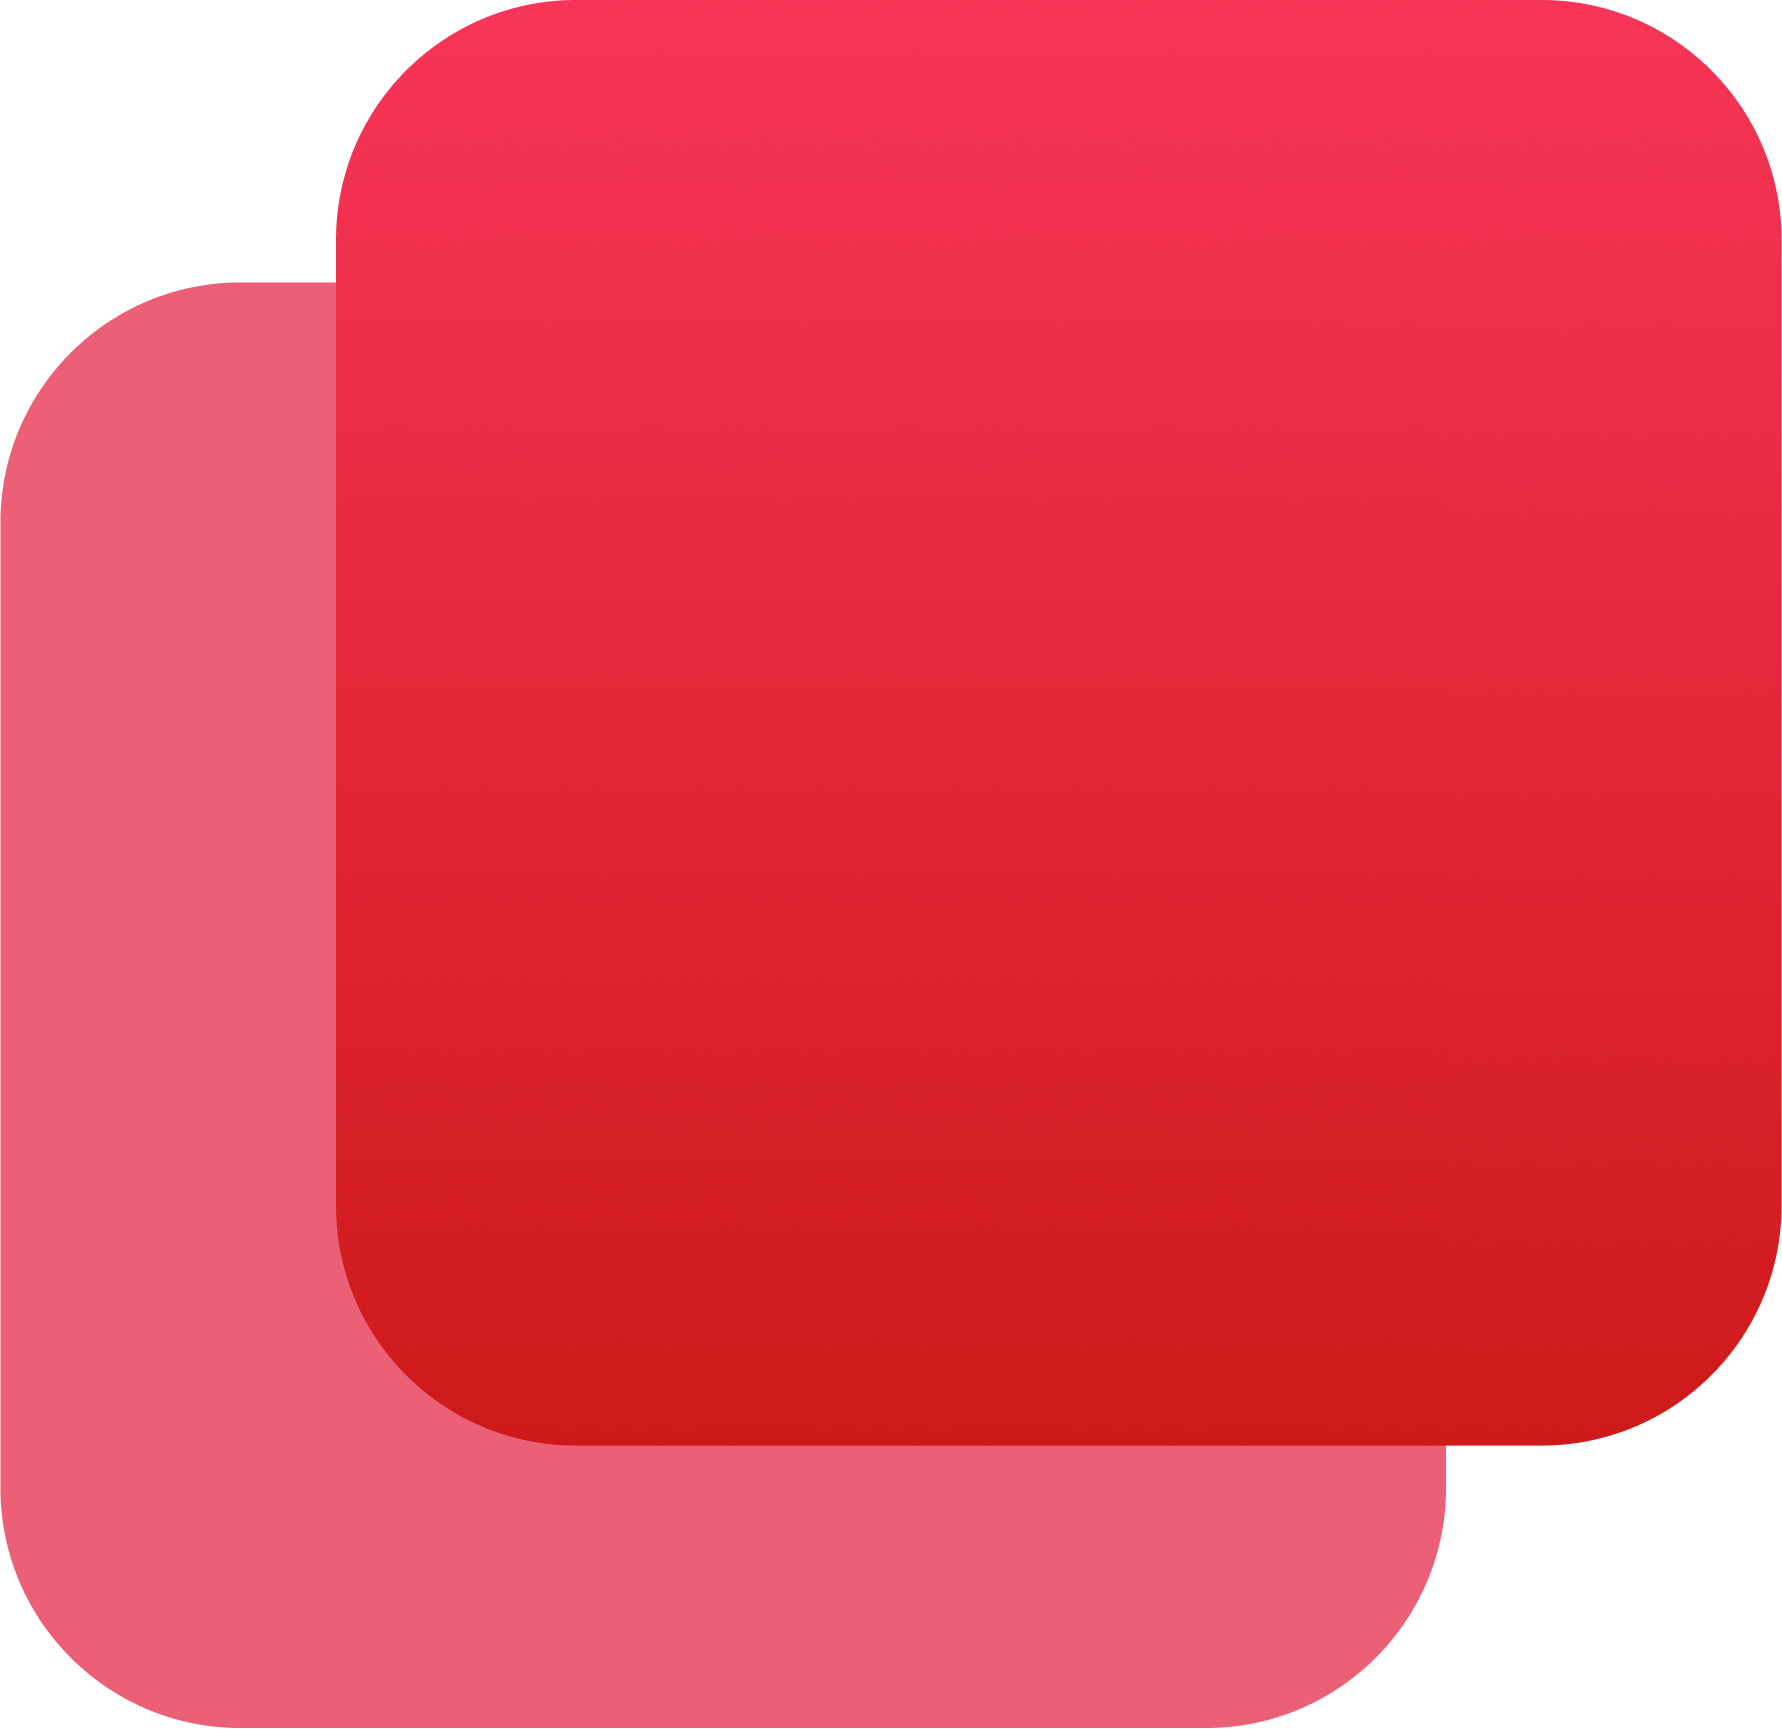
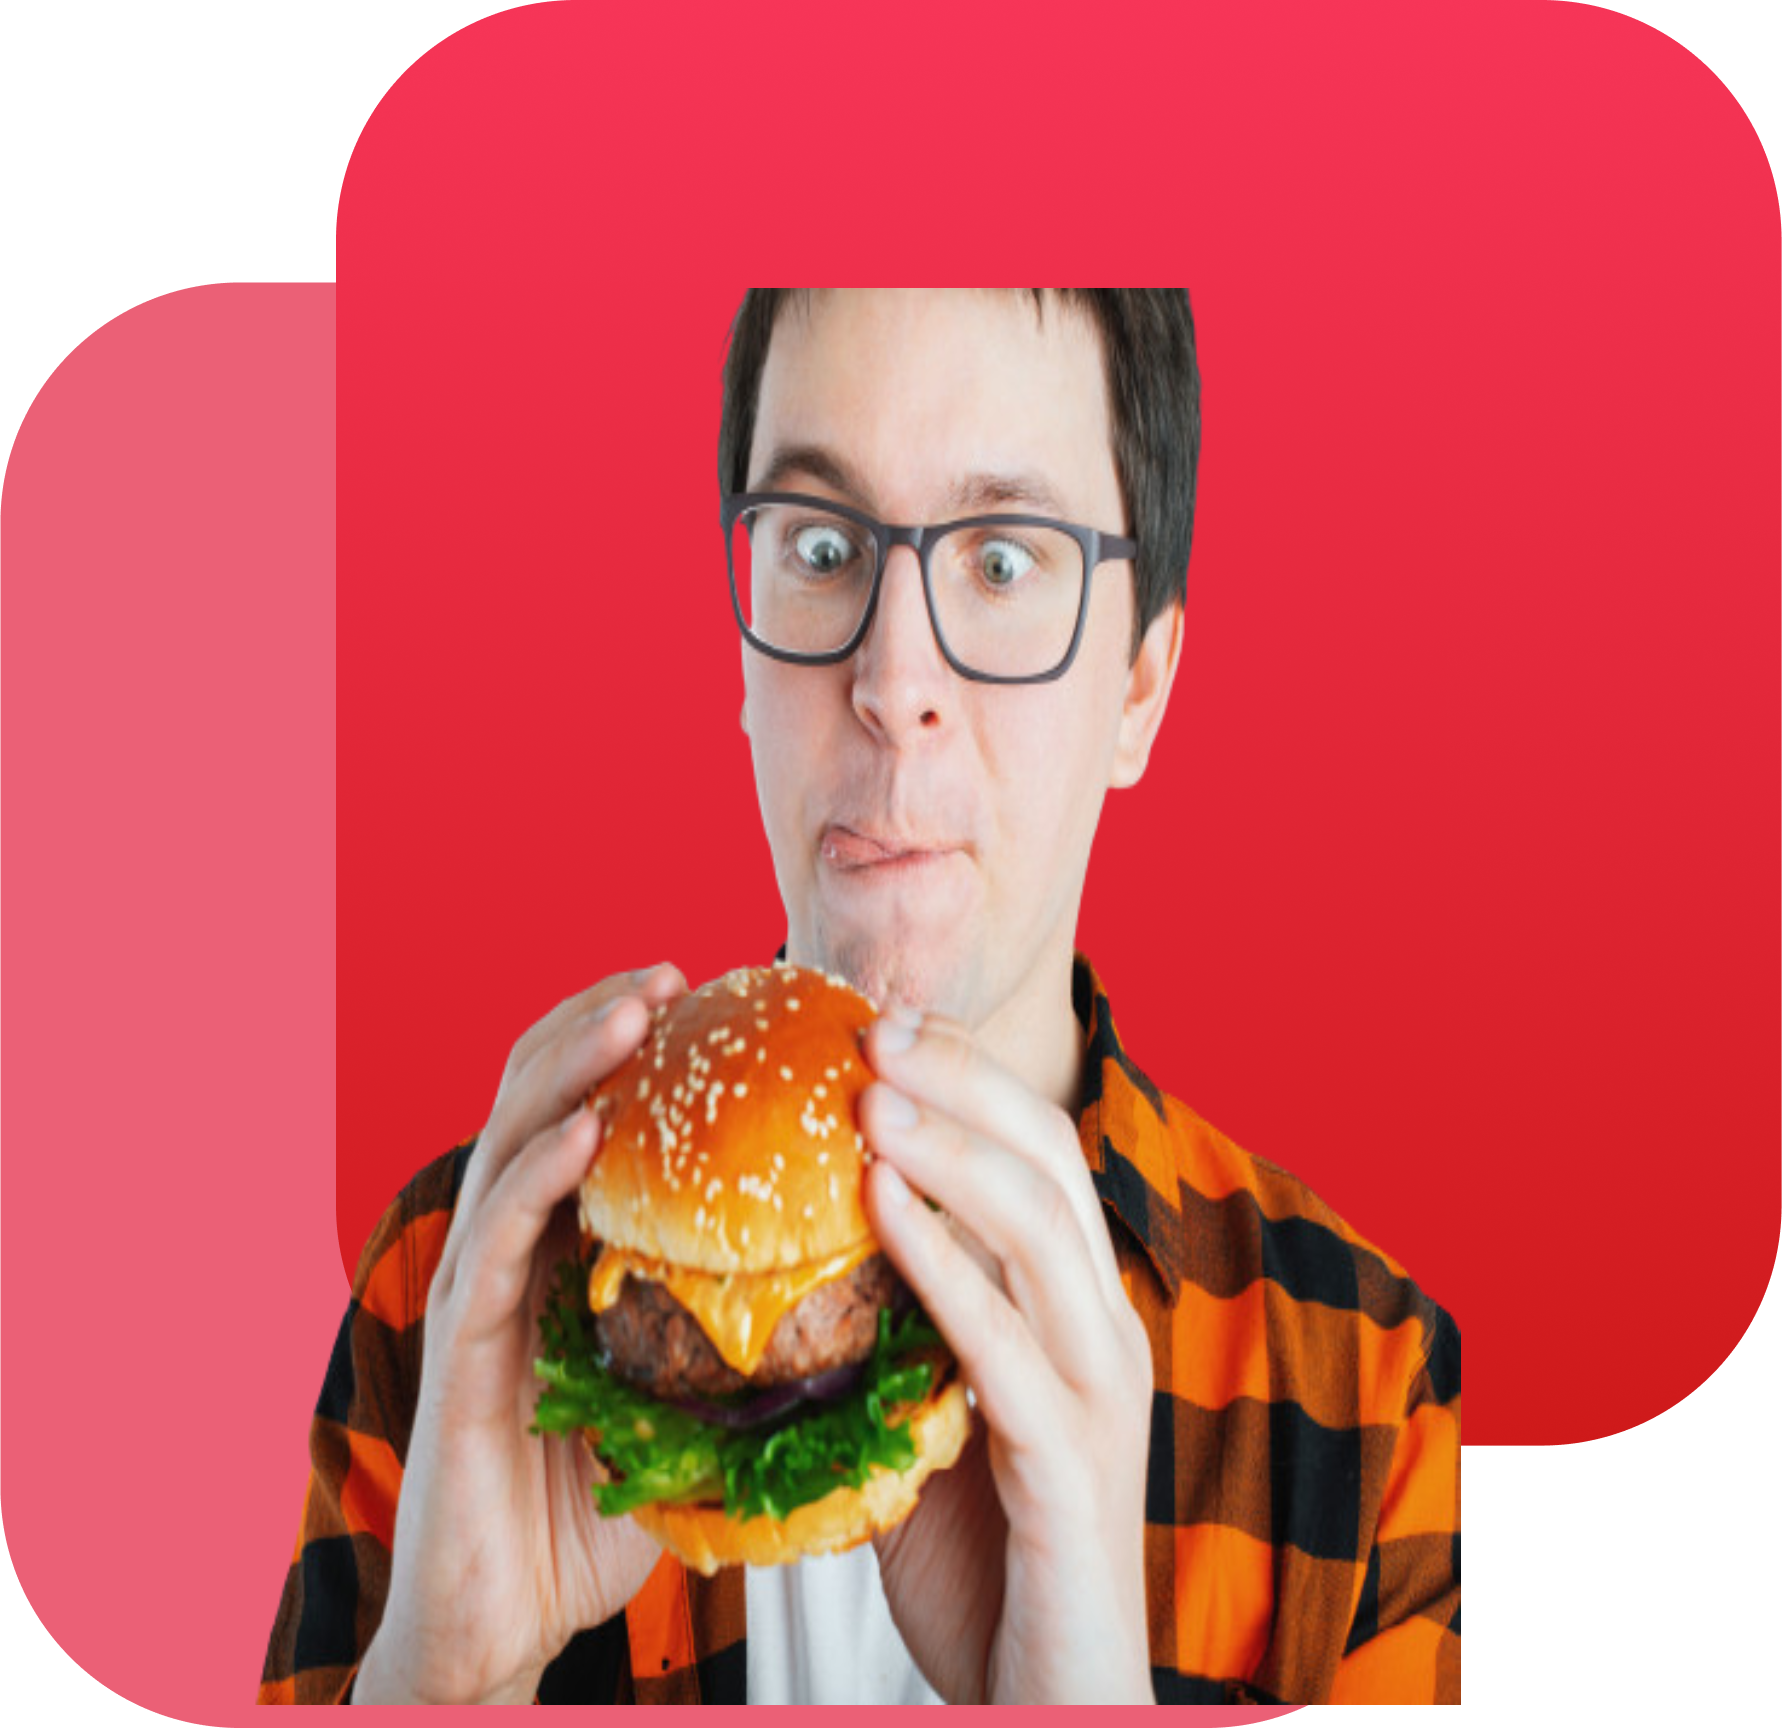
my portfolio

diff --git a/index.html b/index.html
@@ -30,67 +30,100 @@
             </div>
             <div class="about content">
                 <h1 class="header">About Me</h1>
-                <p>Lorem ipsum dolor sit amet, consectetur adipiscing 
-                    elit. Condimentum diam orci pretium a pharetra, 
-                    feugiat cursus. Dictumst risus, sem egestas odio cras 
-                    adipiscing vulputate. Nisi, risus in suscipit non. Non 
-                    commodo volutpat, pharetra, vel.</p>
+                <p>I work with health and wellness professionals, authors, and service-based entrepreneurs to help them save time and look good online</p>
                   <a target="_blank" href="https://www.facebook.com/">Contact Me</a>  
             </div>
-        </section>
-        <section>
+            </section>
+            <div class="middle">
+                <h1>My recipies</h1>
+                <p>Put your diet on autopilot Eat This Much creates personalized meal plans based on your food preferences, budget, and schedule. Reach your diet and nutritional goals with our calorie calculator, weekly meal plans, grocery lists and more.</p>
+            </div>
+
+
+           
+     
+
             <div >
-                <h1>My Recipice</h1>
-                <p>Lorem Ipsum is simply dummy text of the printing and typesetting industry.Lorem Ipsum has been the industry's standard dummy text ever since the 1500s</p>
-            </div>
-            <div class="recipice box wrapper">
-                <div class="box">
-                    <div class="recipice">
-                        <img src="images/Project Cover.jpg" alt="Food pic">
 
+                <div class="cards">
+                    <div class="image">
+                        <img src="images/Project Cover1.jpg" alt="food ">
                     </div>
-                    <div class="recipice title">
+                    <div class="title">
                         <h1>Recipie Title</h1>
-                        <P>Lorem ipsum dolor sit amet, 
-                            consectetur adipiscing elit. Lacus, 
-                            fermentum amet faucibus sed id nisi 
-                            lectus at.</P>
+                        <p>Chicken cutlets are the key ingredient to making this meal extra speedy. The maple syrup creates a sweet glaze for the chicken that complements the apples and Brussels sprout in the slaw. </p>
                     </div>
-
-                </div>
-                <div class="box">
-                    <div class="recipice">
-                        <img src="images/Project Cover.jpg" alt="Food pic">
-
-                    </div>
-                    <div class="recipice title">
-                        <h1>Recipie Title</h1>
-                        <P>Lorem ipsum dolor sit amet, 
-                            consectetur adipiscing elit. Lacus, 
-                            fermentum amet faucibus sed id nisi 
-                            lectus at.</P>
-                    </div>
-
-                </div>
-                <div class="box">
-                    <div class="recipice">
-                        <img src="images/Project Cover.jpg" alt="Food pic">
-
-                    </div>
-                    <div class="recipice title">
-                        <h1>Recipie Title</h1>
-                        <P>Lorem ipsum dolor sit amet, 
-                            consectetur adipiscing elit. Lacus, 
-                            fermentum amet faucibus sed id nisi 
-                            lectus at.</P>
-                    </div>
-
                 </div>
 
-            </div>
-
-        </section>
+                <div class="cards">
+                    <div class="image">
+                        <img src="images/Project Cover.jpg" alt="food ">
+                    </div>
+                    <div class="title">
+                        <h1>Recipie Title</h1>
+                        <p>This casserole is perfect for your busy week when getting in and out of the kitchen needs to be a snap. With very simple prep work, it will become a weeknight staple in your household.</p>
+                    </div>
+                </div>
     
+                <div class="cards">
+                    <div class="image">
+                        <img src="images/Project Cover.png" alt="food ">
+                    </div>
+                    <div class="title">
+                        <h1>Recipie Title</h1>
+                        <p>This simple Black Bean and Chicken Casserole uses a slow cooker, canned beans and rotisserie chicken to make a super-convenient family meal. Its very good for your health and mind also.</p>
+                    </div>
+                </div>
+
+            </div>
+
+            <section class="unhealthy">
+                <div class="uncont">
+                    <h1><span>Avoid</span> unhealthy</h1> 
+                    <h1>And Junk Food</h1>
+                    <p>Junk foods can be a treat to the taste buds, but the ill effects of these foods widely known. Its regular consumption can have adverse effects on your health and may cause irreparable damage to the body</p>
+
+
+                </div>
+                <div class="man image">
+                    <img src="images/Group 8447.png" alt="man pic">
+
+                </div>
+                   
+             
+
+            </section>
+
+
+
+            <div class="main">
+
+                <div class="subcrive">
+                    <h1>700k</h1>
+                    <small>Youtube Subscribers</small>
+                </div>
+
+                <div class="subcrive">
+                    <h1>2.4m</h1>
+                    <small>Instagram Followers</small>
+                </div>
+
+                <div class="subcrive">
+                    <h1>100k</h1>
+                    <small>Dribbble Shot Likes</small>
+                </div>
+
+            </div>
+
+     
+
+     
+
+            <footer>
+                <h1 class="new heading"><span class="food">FOOD</span> NETWORK</h1>
+                <p>Eat healthy to live healthy. Live healthy to live happy.</p>
+            </footer>
+        
     
 </body>
 </html>

diff --git a/style.css b/style.css
@@ -8,7 +8,7 @@ body{
 }
 .content{
     width: 50%;
-    padding-left: 100px;
+    padding-left: 50px;
     padding-top: 90px;
     
 }
@@ -57,14 +57,91 @@ a{
    
     
 }
-.recipice box wrapper{
-    float: left;
+.middle{
+    padding-top: 40px;
+    padding-left: 300px;
+}
+.middle h1{
+  text-align: center;
+  font-size: 25px;
+}
+.middle p{
+    text-align: center;
+    width:400px;
+    
 }
 
+.cards{
+    width: 30%;
+    box-shadow: 2px 2px 5px gray;
+    margin-left: 20px;
+    border-radius: 20px;
+    display: inline-block;
+    
 }
-.recipice title{
-    width:50%;
+.unhealthy{
+    display: flex;
+    padding: 5%;
 }
-.recipice img{
-    width:20%;
+.uncont{
+    width: 50%;
+    padding-left: 50px;
+    padding-top: 90px;
 }
+
+
+.image img{
+    width:80%;
+    margin-top: 25px;
+    
+    
+}
+.title h1{
+   
+   font-size: 25px;
+   margin-left: 26px;
+    
+}
+.title p{
+    width:250px;
+    margin-left: 26px;
+    padding-bottom: 30px;
+    
+}
+.main{
+    display: flex;
+    justify-content: space-around;
+    padding:30px 0px;
+    box-shadow: 2px 2px 3px 1px gray;
+    margin:80px 60px 60px 60px;
+    border-radius: 15px;
+}
+.subcrive{
+    
+   display:inline-block;
+   width: 150px;
+   margin-left: 50px;
+}
+footer{
+    background-color: black;
+    color: azure;
+    padding-top: 25px;
+    padding-left:280px ;
+    padding-bottom: 10px;
+    text-align: center;
+}
+.food{
+    color:#FB934A
+}
+footer h1{
+    font-size: 18px;
+    margin-bottom: 30px;
+}
+footer p{
+    font-size: 10px;
+    
+}
+
+   
+
+   
